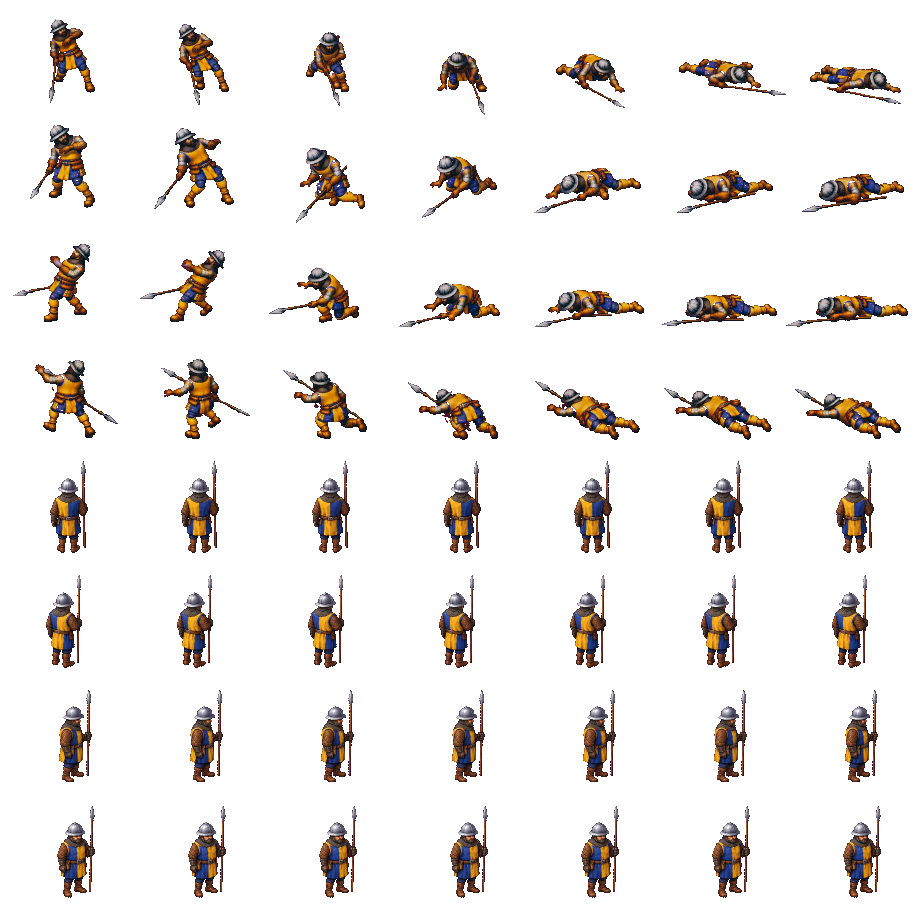
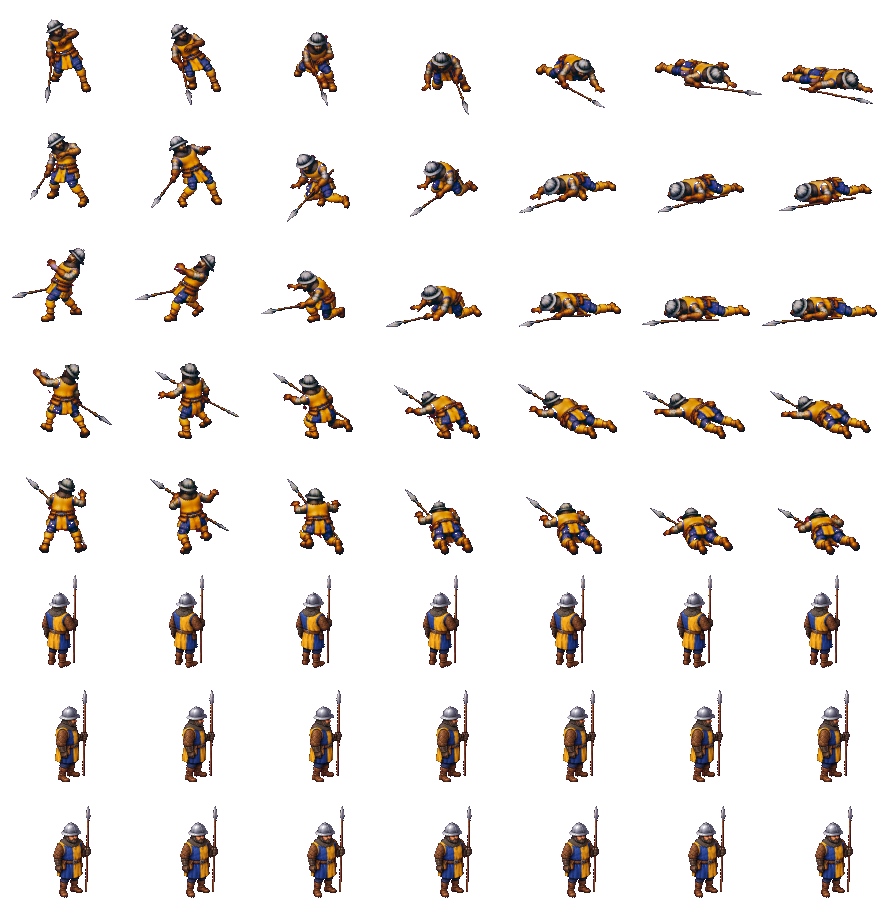
Vallen N van de speerman; een aanval of val wordt nooit hoger dan de staande man
Vel 22 was goed, maar de generator gaf hem een kleine helm (55 pixels tegen 99 bij lopen N), zodat hij naar de helm
gemeten 20% te groot werd. Een aanval of val neemt nu van de twee maten (de hoogte van het lijf, en de helm tegen die
van het lopen) de kleinste man: gebukt maakt de hoogte hem te groot, een kleine helm de helm. Daardoor worden ook
aanvallen N, NO, O en ZO en vallen ZW, W en NW iets kleiner; staan en lopen blijven pixel voor pixel hetzelfde.

diff --git a/beelden/beschrijving.js b/beelden/beschrijving.js
@@ -544,12 +544,12 @@
     "speerman": {
      "naam": "speerman",
      "cel": [
-      165,
-      149
+      163,
+      141
      ],
      "anker": [
       83,
-      121
+      113
      ],
      "snelheid": 1.5,
      "richtingen": [
@@ -599,12 +599,12 @@
        "fps": 10,
        "herhaal": false,
        "cel": [
-        155,
-        138
+        154,
+        131
        ],
        "anker": [
         78,
-        116
+        109
        ]
       },
       "sterven": {
@@ -613,11 +613,11 @@
        "fps": 8,
        "herhaal": false,
        "cel": [
-        131,
+        127,
         115
        ],
        "anker": [
-        68,
+        64,
         92
        ]
       }

diff --git a/ontwerp/beelden-van-de-generator.md b/ontwerp/beelden-van-de-generator.md
@@ -338,7 +338,11 @@ generator van 1,7 MB; op spelmaat is het verschil ruis) en lopen in het spel. Wa
 - **Vel 20, vallen W** (22 okt): meteen goed: door de klap achterover, dan voorover naar links. De punten raken de laars
   van het beeld ervoor, dus de beelden staan niet los; de gelijke vakken met de dunne stukken knippen het goed.
 - **Vel 21, vallen NW** (22 okt), voorlopig: goed gevallen, maar in beeld 1 wijst de punt naar rechtsonder (bij lopen
-  en aanvallen NW naar linksboven), in beeld 2 heeft de speer aan beide kanten een punt, en er zitten rode vlekjes op. Bij N (vel 14), van achteren, speelt hetzelfde: dan de punt
+  en aanvallen NW naar linksboven), in beeld 2 heeft de speer aan beide kanten een punt, en er zitten rode vlekjes op.
+- **Vel 22, vallen N** (22 okt): goed (van achteren, voorover van ons af), met weer een punt achteraan de speer in beeld
+  1 en 2, en rode vlekjes. De generator gaf hem een kleine helm (55 pixels tegen 99 bij lopen N), zodat hij naar de helm
+  20% te groot werd; een aanval of val neemt nu de kleinste van de twee maten (hoogte en helm), zodat hij nooit hoger
+  wordt dan de staande man. Dat maakte ook aanvallen N, NO, O en ZO en vallen ZW, W en NW iets kleiner. Bij N (vel 14), van achteren, speelt hetzelfde: dan de punt
   omhoog, van de kijker af.
 
 ## De inventaris

diff --git a/ontwerp/code.md b/ontwerp/code.md
@@ -1229,7 +1229,8 @@ de browser en in de Node-tests werkt. De volgorde van de scripts in `index.html`
   `FIGUREN[naam].doel` pixels tot de helm, met een maat per vel (`maatVan`: het lijf zonder de speer, met een kern van een
   vijftigste van de beeldhoogte, tot de voeten; staan de mediaan, lopen het hoogste beeld; de generator tekent niet elk
   vel even groot; de aanval en het vallen, gebukt of vallend, volgen het lopen in dezelfde richting naar de breedte van
-  de helm, `helmVan`). De voeten (`voetenVan`, ook voor het anker): zonder staal, zonder wat dun is (een opening) en
+  de helm, `helmVan`, en nemen van de hoogte en de helm de kleinste man: gebukt maakt de hoogte hem te groot, een kleine
+  helm de helm). De voeten (`voetenVan`, ook voor het anker): zonder staal, zonder wat dun is (een opening) en
   alleen het gekleurde leer, want bij een steek naar de kijker steekt de speerpunt onder de voeten uit, en de vellen zoals `figuurvel.cjs` ze schrijft, in `uit/generator/animaties/`. Elke bron
   (webp, of de png van de generator in RGB) gaat via PIL naar een RGBA-png in `uit/generator/bron/`, want `H.lees` leest
   alleen 8-bit RGBA. De genummerde vellen van de masterprompt (`bron/<soort>/<naam>/NN`, `genummerd`) gaan voor de losse.

diff --git a/ontwerp/werklijst.md b/ontwerp/werklijst.md
@@ -32,7 +32,7 @@ de pijplijn van vraag 180 (Q, f; niet in de cloud). **Bezig in sessie `lokaal-da
 **nieuwe weg** (Marcel, 21 okt: "Ok, dan zullen we moeten inventariseren welke gebouwen en poppetjes we nodig hebben. Dan
 kunnen we de andere generator deze 1 voor 1 laten maken. Jij moet dan zorgen dat ze passend worden in het spel"): de
 generator van zijn plaat maakt de bron, wij maken het passend; eerst de inventaris (`beelden-van-de-generator.md`). De
-speerman staat en loopt in het spel in acht richtingen (21 okt, de masterprompt); de aanval in alle acht richtingen en vallen Z, ZW, W en NW (voorlopig) staan erin; **wacht op Marcel**: vel 22 tot 25 (vallen) (in
+speerman staat en loopt in het spel in acht richtingen (21 okt, de masterprompt); de aanval in alle acht richtingen en vallen Z, ZW, W, NW (voorlopig) en N staan erin; **wacht op Marcel**: vel 23 tot 25 (vallen) (in
 het nieuwe gesprek, `beelden-van-de-generator.md`), en eventueel 3 en 4 opnieuw (de punt naar achteren).
 
 **Marcels acht punten van 20 okt** (R, vraag 182 tot 189: egaliseren met de schop, de maat van de huizen, dragers, een
